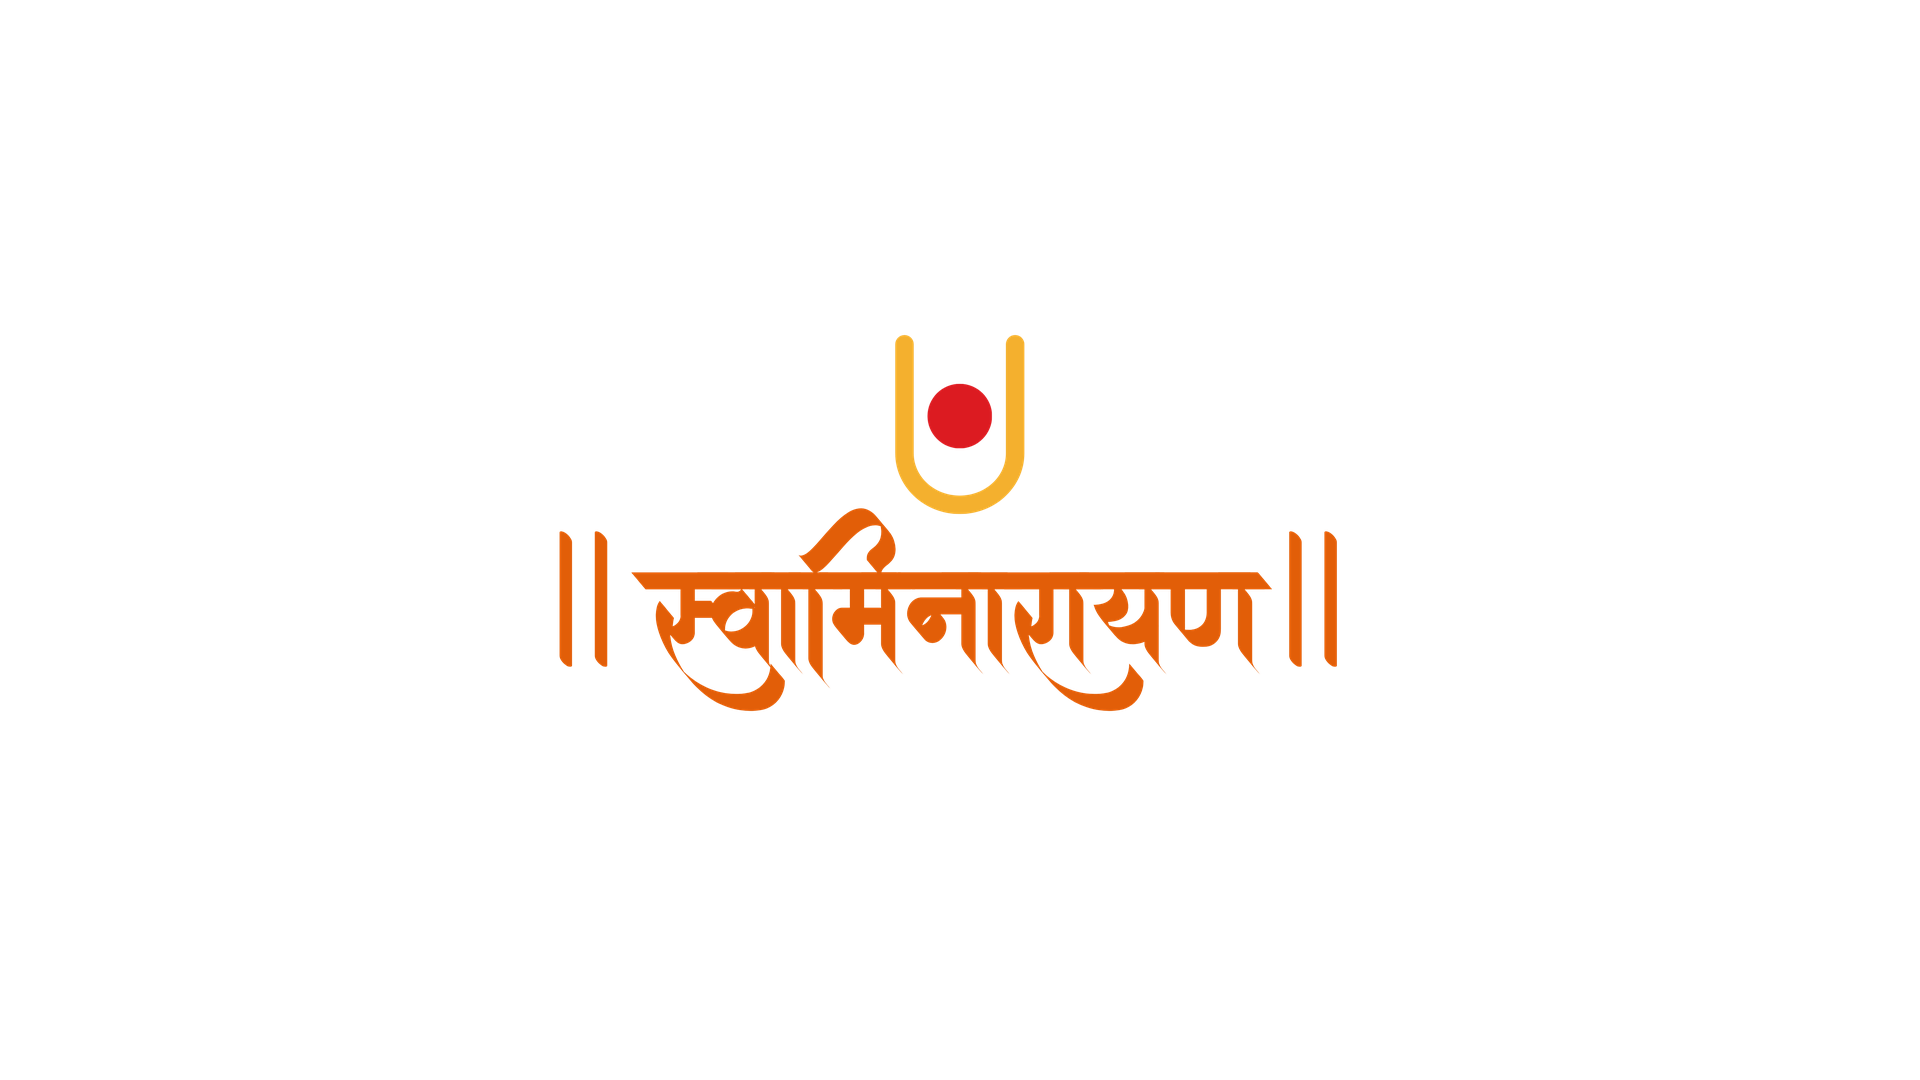
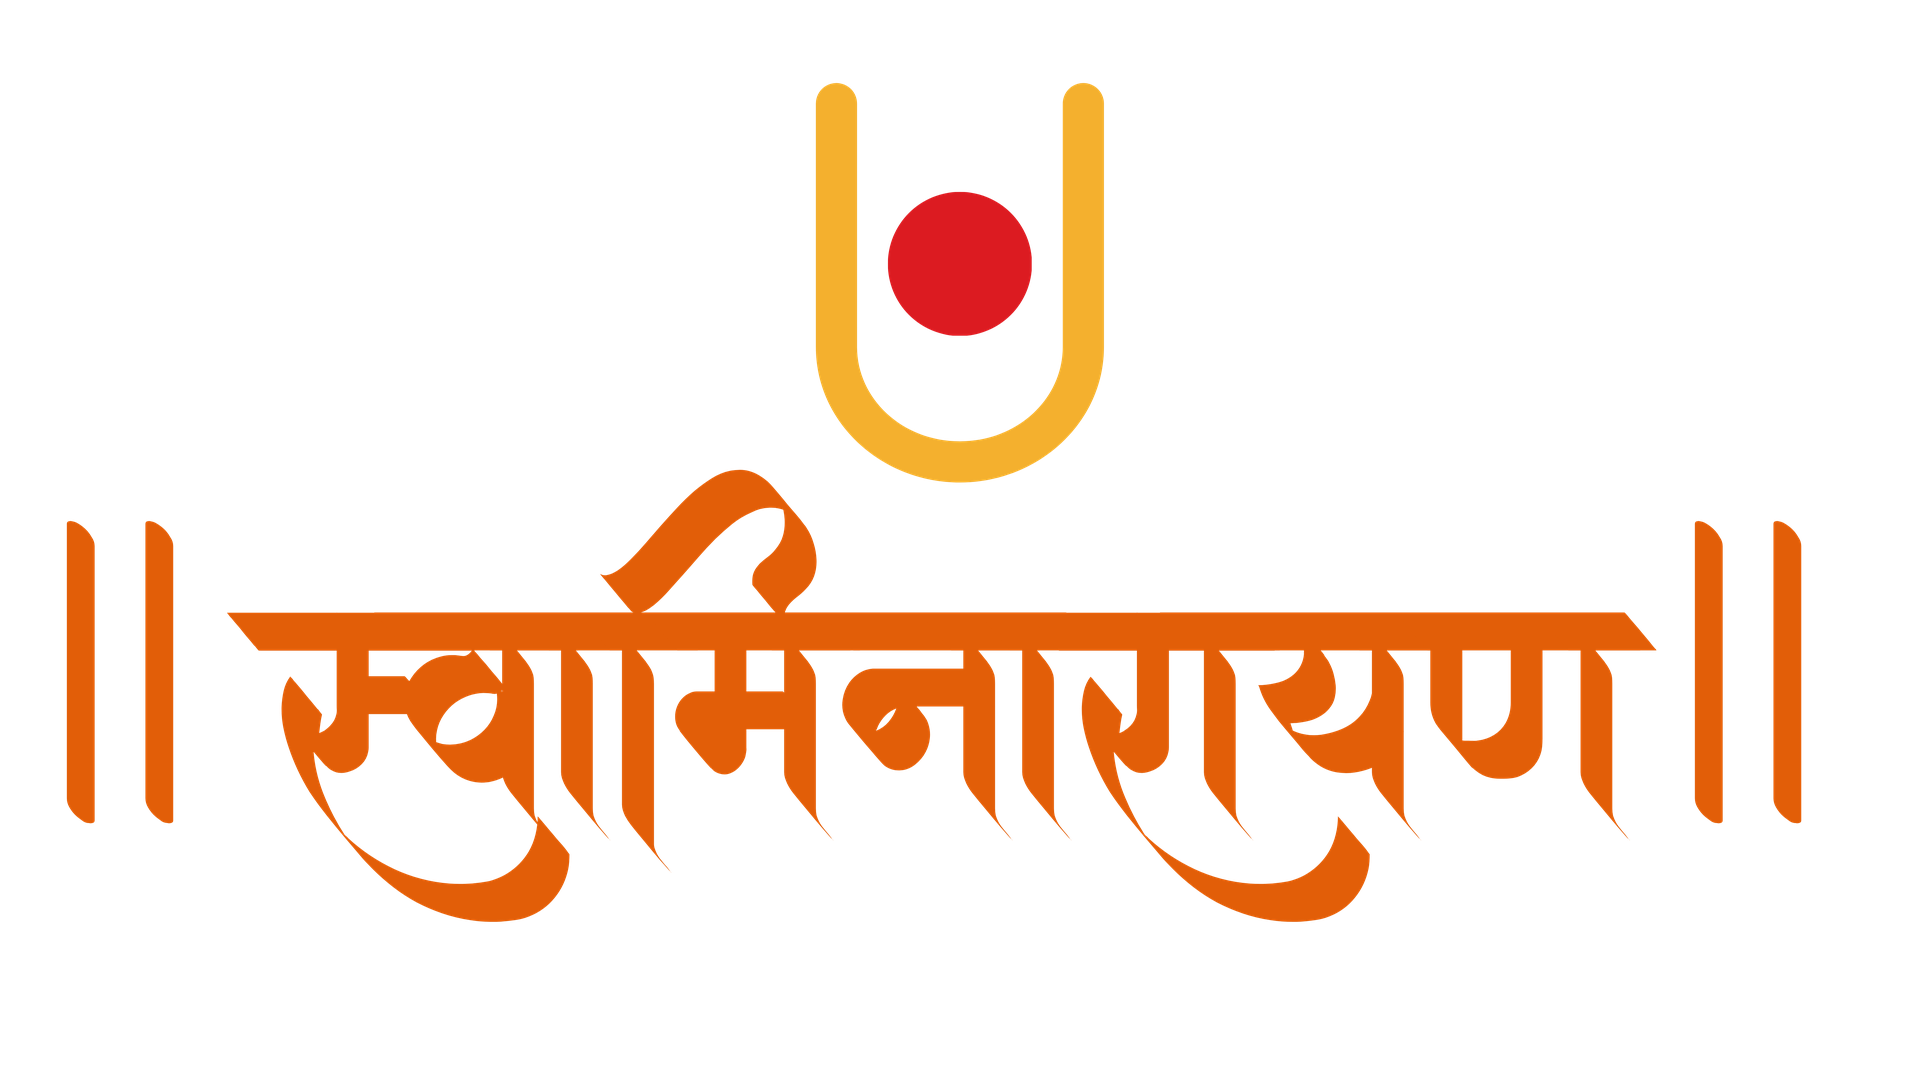
Replace image asset: Update Your paragraph text.png back to Swami-narayan.png
- Replaced Your paragraph text.png file with updated Swami-narayan.png
- Maintains visual consistency with current branding

Changed region(s): [[0.125, 0.0611, 0.9375, 0.8556], [0.0312, 0.4889, 0.0938, 0.7639], [0.5938, 0.7639, 0.7188, 0.8556]]

diff --git a/src/app/(public)/page.tsx b/src/app/(public)/page.tsx
@@ -105,7 +105,7 @@ export default function HomePage() {
               className="flex justify-center"
             >
               <Image
-                src="/Your paragraph text.png"
+                src="/swami-narayan.png"
                 alt="Sahajanand Wellness"
                 width={400}
                 height={400}
